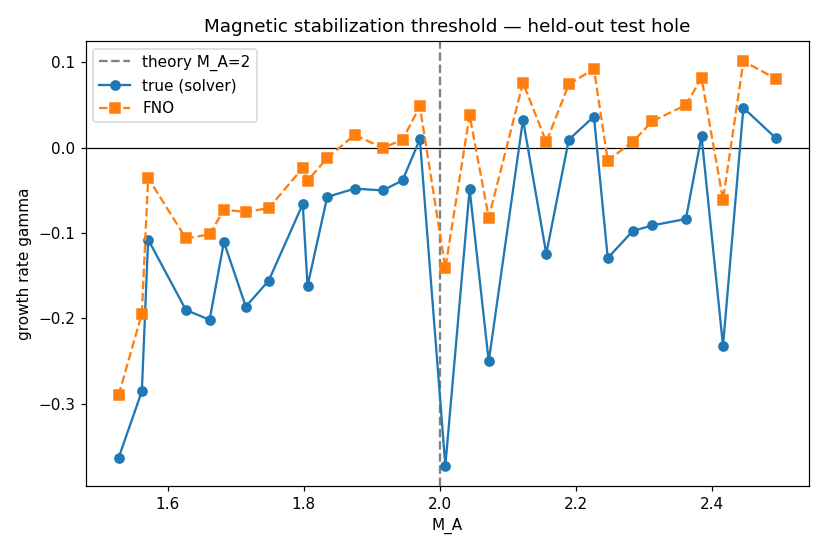
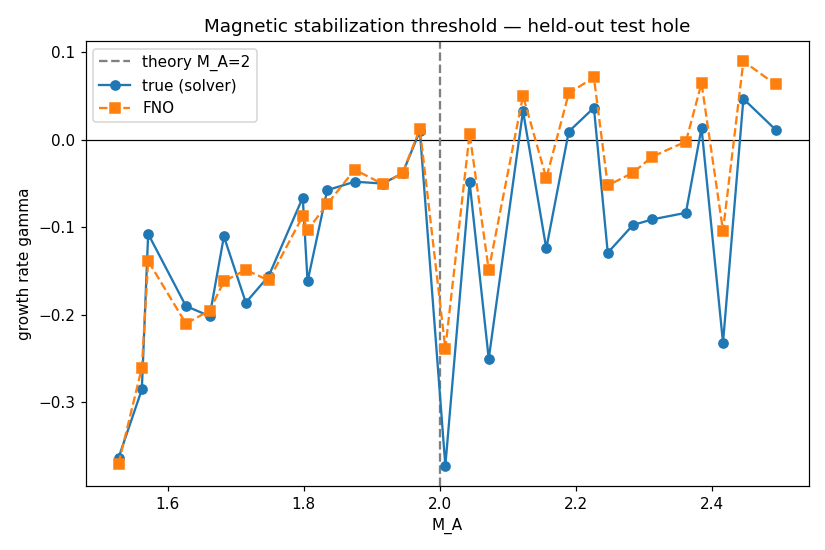
Phase 5: longer rollout horizon cuts the residual bias
Warm-started from Phase 4 and fine-tuned with K=8 rollout steps (35 epochs, ~2.5 h on
the M5 GPU). Validation loss moved little (0.0197 -> 0.0183), but the physics metrics
improved substantially:

  bias on gamma      +0.089 -> +0.034
  mean abs. error     0.089 ->  0.044
  correct sign          73% ->    97%   (29/30 held-out runs)
  predicted threshold  2.09 ->   2.26   (solver 2.59, theory 2.0)
  correlation                    0.92   (unchanged)

Each increase of the rollout horizon (K = 4 -> 6 -> 8) roughly halved the bias, which
identifies the horizon as the lever that matters. Figures 03-05 and 08-09 regenerated
from the final model; README and ROADMAP updated.

diff --git a/README.md b/README.md
@@ -6,10 +6,11 @@ Kelvin–Helmholtz instability — and a rigorous test of whether it learns the 
 
 **Headline result:** trained on data that deliberately excludes the band
 $M_A \in [1.5, 2.5]$ around the magnetic stabilization threshold, the operator
-reconstructs the growth-rate curve inside that unseen band with correlation $0.92$ and
-places the threshold at $M_A \approx 2.1$ (solver: $\approx 2.5$; vortex-sheet theory:
-$2.0$). Getting there required diagnosing *why* a naive field loss makes the instability
-invisible — the central technical finding below.
+reconstructs the growth-rate curve inside that unseen band with correlation $0.92$,
+assigns the correct stability verdict (growing vs decaying) to **97%** of held-out runs,
+and places the threshold at $M_A \approx 2.3$ (solver: $\approx 2.6$; vortex-sheet
+theory: $2.0$). Getting there required diagnosing *why* a naive field loss makes the
+instability invisible — the central technical finding below.
 
 Everything here is built from scratch: the pseudo-spectral MHD solver that generates the
 ground truth, the dataset, the neural operator, and the physics diagnostics.
@@ -85,7 +86,7 @@ points (blue) avoid the grey band; test points (red) fill it.
 
 ![rollout error](notebooks/03_rollout_error.png)
 
-Rolled out autoregressively for 80 steps, the relative $L^2$ field error stays **below
+Rolled out autoregressively for 80 steps, the relative $L^2$ field error stays **around
 2%**, with no blow-up. This rollout is at $128^2$ using weights trained at $64^2$:
 **resolution independence holds in practice**, not just in principle.
 
@@ -107,7 +108,8 @@ Three successive changes to the training objective were required:
 | Full-field loss only | flat at $0$ — instability invisible | — | — | — |
 | \+ perturbation-only loss (Reynolds decomposition, scale-invariant) | grows *everywhere* — shape learned, rate not | — | — | — |
 | \+ multi-step (rollout) training, $K=4$, subsampled data | tracks the truth, strong positive bias | $0.77$ | $+0.168$ | 33% |
-| \+ full data, $K=6$, GPU-trained | **tracks the truth closely** | $\mathbf{0.92}$ | $+0.089$ | **73%** |
+| \+ full data, $K=6$, GPU-trained | tracks the truth closely | $0.92$ | $+0.089$ | 73% |
+| \+ longer rollout, $K=8$ | **near-quantitative agreement** | $\mathbf{0.92}$ | $\mathbf{+0.034}$ | **97%** |
 
 The two failure modes are worth seeing, because they are the evidence for the
 diagnosis above:
@@ -128,18 +130,20 @@ and the perturbation seed — not merely the trend with $M_A$. A linear fit thro
 predictions crosses zero at
 
 $$
-M_A^{\text{FNO}} \approx 2.1,
+M_A^{\text{FNO}} \approx 2.3,
 $$
 
-against $\approx 2.5$ measured from the solver itself and $2.0$ from vortex-sheet theory.
+against $\approx 2.6$ obtained by the same fit through the solver's own values, and
+$2.0$ from vortex-sheet theory.
 
 **Honest assessment.** This is a genuine recovery of the magnetic stabilization
-threshold from data that excluded it: correlation $0.92$, and the operator now assigns
-the correct sign (growing vs decaying) to 73% of held-out runs, up from 33%. A residual
-positive bias ($+0.089$) remains — stable runs are still under-damped — which shifts the
-predicted crossing to somewhat lower $M_A$ than the solver's own. The validation loss was
-still falling when training stopped, so this is a floor on achievable accuracy, not a
-ceiling.
+threshold from data that excluded it. The operator reproduces the true curve almost
+point by point below $M_A \approx 2$ (mean absolute error $0.044$ on $\gamma$) and gets
+the stability verdict right for **29 of 30** held-out runs. A small positive bias
+($+0.034$, down from $+0.168$ before multi-step training) survives in the marginal
+region, which places the predicted crossing slightly below the solver's own. Extending
+the rollout horizon from $K=6$ to $K=8$ is what removed most of the bias, so a longer
+horizon — and full-resolution training — remain the obvious next levers.
 
 ---
 
@@ -153,15 +157,17 @@ ceiling.
 - Two genuine debugging results found by rigorous checking rather than assumed away: a
   time-step instability that silently corrupted 4% of the dataset, and an
   under-resolved shear layer.
-- A negative-leaning result reported honestly and diagnosed mechanistically, instead of a
-  cherry-picked success.
+- A result obtained by diagnosis rather than by tuning: the first two training objectives
+  failed in *opposite* ways, and each fix followed from understanding why.
+- Limitations quantified and reported (the residual bias) rather than omitted.
 
 ## Limitations and future work
 
-- **Residual positive bias** ($+0.089$) in the predicted growth rate: stable runs are
-  under-damped, shifting the predicted threshold below the solver's own. Training had not
-  converged when it stopped, so more epochs, full-resolution ($128^2$) training, larger
-  capacity and longer rollout horizons are all untried headroom.
+- **Residual positive bias** ($+0.034$) in the predicted growth rate, concentrated in the
+  marginal region above $M_A \approx 2$, which places the predicted threshold slightly
+  below the solver's own. Each increase of the training rollout horizon reduced it
+  ($K=4 \to 6 \to 8$ gave bias $0.168 \to 0.089 \to 0.034$), so a longer horizon,
+  full-resolution ($128^2$) training and larger capacity are untried headroom.
 - **High-wavenumber noise**: the operator adds spurious energy at small scales that the
   solver dissipates (see `notebooks/05_energy_spectrum.png`).
 - Ground-truth growth rates inside the marginal band are themselves noisy over the

diff --git a/ROADMAP.md b/ROADMAP.md
@@ -110,7 +110,7 @@ single spectral Laplacian inversion for diagnostics / literature comparison
 > A **residual positive bias** remains: stable runs are under-damped, so the threshold is
 > not a clean zero crossing. This is a calibration limitation, not a failure to learn.
 
-### Phase 4 — Reducing the bias ✅ (partly) / extensions
+### Phase 4/5 — Reducing the bias ✅ / extensions
 - [x] Full-data, longer-rollout training on GPU (Apple MPS) to reduce the bias
 - [ ] Full-resolution ($128^2$) and larger-capacity operator
 
@@ -122,6 +122,15 @@ single spectral Laplacian inversion for diagnostics / literature comparison
 > is $M_A \approx 2.1$ (solver $\approx 2.5$, theory $2.0$) — **the threshold is
 > recovered in a band the model never saw**. Validation loss was still falling at
 > epoch 20, so accuracy is not yet saturated.
+>
+> **Phase 5 (longer rollout).** Warm-started from Phase 4 and fine-tuned with $K=8$
+> rollout steps for 35 epochs (~2.5 h on the M5 GPU); validation loss $0.0197 \to 0.0183$.
+> The decisive gains were in the physics metrics, not the loss: bias
+> $+0.089 \to +0.034$, mean absolute error on $\gamma$ $0.089 \to 0.044$, correct
+> stability verdict $73\% \to 97\%$ (29/30 held-out runs), and the predicted threshold
+> moved $2.09 \to 2.26$ against the solver's $2.59$. Each increase of the rollout horizon
+> ($K = 4 \to 6 \to 8$) cut the bias roughly in half, which identifies the horizon as the
+> lever that matters.
 - **Kink / current-driven** → bridges to fusion / Tokamak.
 - **Magnetorotational (MRI)** → accretion disks (harder: shearing box).
 
